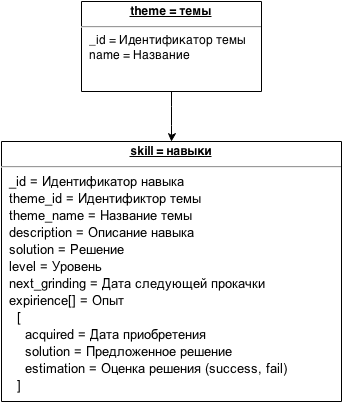
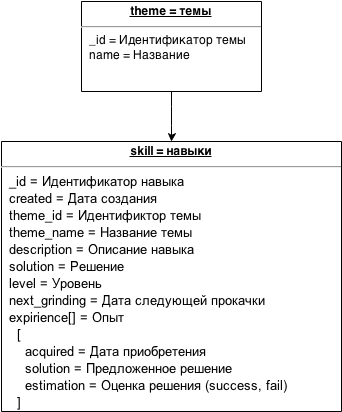
Добавление навыков в цикле, дата создания навыка, косметика

diff --git a/command_line/commands/skill/add.function.php b/command_line/commands/skill/add.function.php
@@ -8,16 +8,27 @@ require_once(__DIR__ . '/../../../skill/add.function.php');
  * Функция добавляет навык из командой строки с помощью
  * диалога с пользователем.
  *
+ * @param string $theme_name Название темы. 
+ *                           Если параметр указан, добавление навыков происходит в цикле.
+ *
  * @author Yuriy Zhdanov <yuriy.zhdanov@gmail.com>
  */
 
-function add()
+function add($theme_name = null)
 {
     // подключение к mongo
     require(__DIR__ . '/../../../mongo/connect.php');
 
-    // получение названия темы из STDIN
-    $theme_name = \ef\command_line\read_stdin('line', 'Название темы:');
+    $repeat = false;
+
+    // если тема указана
+    if ($theme_name) {
+        // добавлять навыки в цикле
+        $repeat = true;
+    } else {
+        // получение названия темы из STDIN
+        $theme_name = \ef\command_line\read_stdin('line', 'Название темы:');
+    }
 
     // получать название темы из STDIN, пока тема не будет найдена
     $theme = $mongo_db->theme->findOne(['name'=>$theme_name]);
@@ -34,4 +45,9 @@ function add()
 
     // добавление навыка
     \ef\skill\add($theme_name, $description, $solution);
+
+    // повторить
+    if ($repeat) {
+        add($theme_name);
+    }
 }

diff --git a/command_line/get_help.function.php b/command_line/get_help.function.php
@@ -10,11 +10,8 @@ namespace ef\command_line;
 function get_help()
 {
     $out  = "Использование:\n";
-    $out .= "  skill up <название темы>  Прокачка навыков\n";
     $out .= "  skill add                 Добавление навыков\n";
-    $out .= "  test all                  Запуск всех тестов\n";
-    $out .= "  test unit                 Запуск модульных тестов\n";
-    $out .= "  test functional           Запуск функциональных тестов\n";
+    $out .= "  skill up <название темы>  Прокачка навыков\n";
 
     return $out;
 }

diff --git a/command_line/commands/skill.php b/command_line/commands/skill.php
@@ -17,7 +17,11 @@ require_once(__DIR__ . '/../get_help.function.php');
 switch ($argv[2]) {
     // добавление навыка
     case 'add':
-        \ef\command_line\commands\skill\add();
+        $theme_name = null;
+        if (isset($argv[3]) && $argv[3]) {
+            $theme_name = $argv[3];
+        }
+        \ef\command_line\commands\skill\add($theme_name);
     break;
 
     // прокачка навыка

diff --git a/skill/add.function.php b/skill/add.function.php
@@ -21,6 +21,7 @@ function add($theme_name, $description, $solution)
     }
 
     $mongo_db->skill->insert([
+        'created'       => new \MongoDate(),
         'theme_id'      => $theme['_id'],
         'theme_name'    => $theme['name'],
         'description'   => $description,
